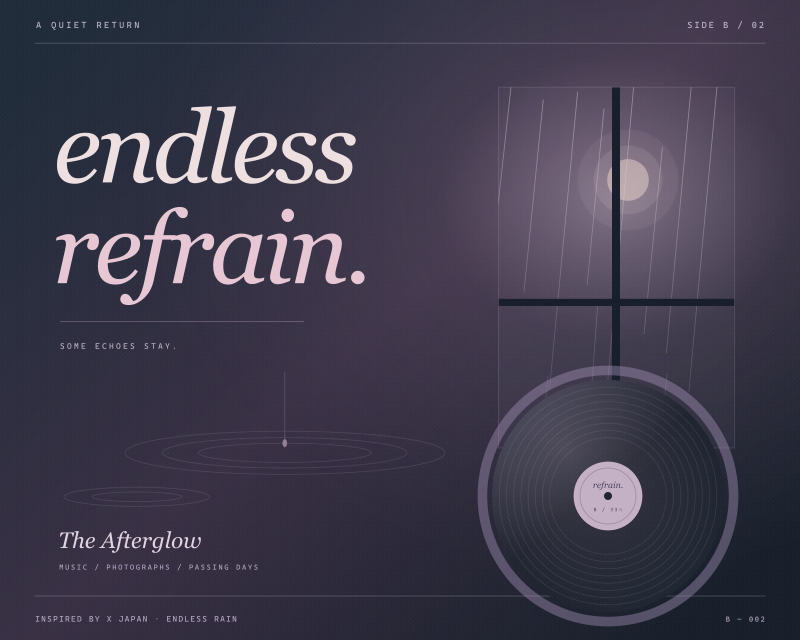
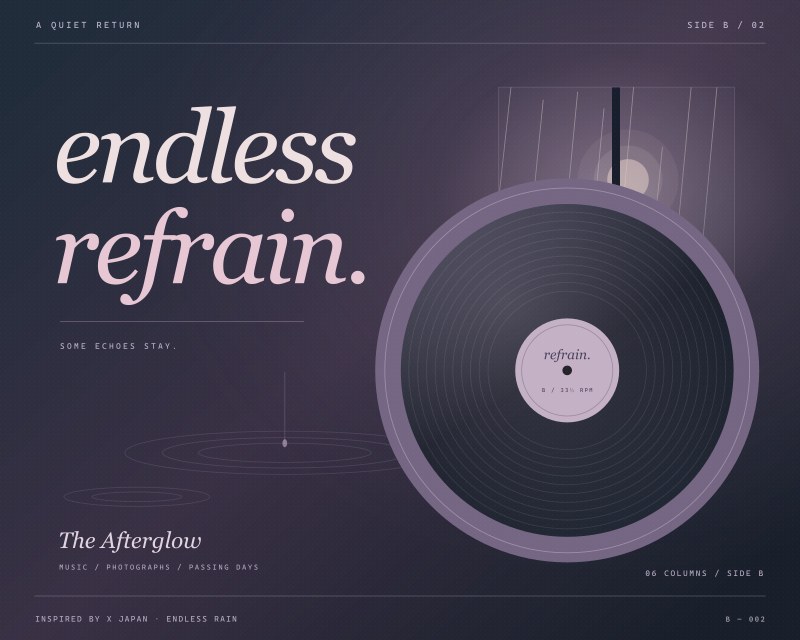
Unite the blog as bohemia's rain and align both vinyl sleeves

Changed region(s): [[0.4688, 0.2812, 0.9688, 1.0], [0.8125, 0.8438, 0.9375, 0.9375]]

diff --git a/src/styles/global.css b/src/styles/global.css
@@ -33,3 +33,9 @@
 .about-hero-image img{filter:none;object-position:50% 45%}
 .about-hero-image>span{background:#27221fc9;padding:8px 10px}
 @media(max-width:600px){.record-visual .hero-photo{aspect-ratio:1.25;box-shadow:5px 5px 0 var(--line)}.record-visual figcaption{margin-top:17px}}
+/* The longer title keeps its full spelling beside the mobile navigation. */
+.brand{flex-shrink:0}.wordmark{white-space:nowrap;font-size:36px}.footer-brand{white-space:nowrap}
+@media(max-width:900px){.brand-note{display:none}.wordmark{font-size:30px}.desktop-nav{gap:20px}.header-tools{margin-left:20px}}
+@media(max-width:700px) and (min-width:601px){.brand{gap:8px}.brand-icon{width:24px}.brand-icon svg{width:24px}.wordmark{font-size:27px}.desktop-nav{gap:15px}.header-tools{margin-left:13px;gap:3px}}
+@media(max-width:600px){.brand{gap:8px}.wordmark{font-size:clamp(22px,6.2vw,30px);letter-spacing:-1px}.brand-icon{width:23px}.brand-icon svg{width:23px}.header-tools{margin-left:auto;gap:2px}.header-tools .icon-button{min-width:32px;min-height:38px;padding:6px}.tool-divider{margin-inline:0}.footer-top{flex-wrap:wrap;gap:12px 18px}.footer-brand{font-size:27px}.footer-top>p{order:3;flex-basis:100%}}
+@media(max-width:360px){.site-header{padding-inline:18px}.brand{gap:6px}.brand-icon,.brand-icon svg{width:20px}.wordmark{font-size:22px}}

diff --git a/README.md b/README.md
@@ -1,14 +1,14 @@
-# Bohemia
+# bohemia's rain
 
 > 不同的声音，同一场共鸣。
 
 源码仓库：[ElysiaTT/Bohemia](https://github.com/ElysiaTT/Bohemia) · 默认分支：`main`
 
-一个为 GitHub Pages 制作的中文个人博客。名字取自 Queen 的《Bohemian Rhapsody》（《波西米亚狂想曲》），以原创黑胶封套、奶油纸色与酒红色建立视觉。每个专栏将像一支不同的摇滚乐队，组成同一个自由表达的舞台。
+一个为 GitHub Pages 制作的中文个人博客。名字将 Queen 的《Bohemian Rhapsody》（《波西米亚狂想曲》）与 X JAPAN 的《ENDLESS RAIN》连接起来，以原创黑胶封套、奶油纸色与酒红色建立视觉。每个专栏像一支不同的摇滚乐队，组成同一个自由表达的舞台。
 
 首页是一张可翻面的唱片：**Side A — The Signal** 收录 8 个技术专栏，**Side B — The Afterglow** 收录 6 个生活专栏。博客副标题 **an endless refrain.** 呼应 X JAPAN《ENDLESS RAIN》。文章原有的技术、设计、生活、随想分类仍用于文章列表，不代替专栏。
 
-两面的封面各自独立：**Side A / Bohemia.** 以酒红舞台与金色光束回应 Queen《波西米亚狂想曲》；**Side B / endless refrain.** 以冷紫雨夜、窗上的雨和水面回响回应 X JAPAN《ENDLESS RAIN》。翻面同步切换封面、首页签名、灵感署名与 Now Playing，专栏分组仍为 The Signal 与 The Afterglow。
+两面的封面各自独立：**Side A / Bohemia.** 以四道菱形排列的明暗人像、歌剧拱门与酒红帷幕回应 Queen《波西米亚狂想曲》；**Side B / endless refrain.** 以冷紫雨夜、窗上的雨和水面回响回应 X JAPAN《ENDLESS RAIN》。两面黑胶共用 Side A 的尺寸与位置，统一站名 **bohemia's rain**，翻面同步切换封面、首页签名、灵感署名与 Now Playing，专栏分组仍为 The Signal 与 The Afterglow。
 
 ![Side A · Bohemia](docs/side-a-bohemia.png)
 
@@ -143,7 +143,7 @@ demo: false
 
 展示字体为现有标题、碎片和引用制作的 Noto Serif SC 子集；新字符会自动使用系统衬线字体。需要更新子集时运行 `python scripts/fetch-assets.py`（也会重新下载示例图片；仅更新字体可加 `--fonts-only`）。正文使用本地系统字体。
 
-Side A 的原创封套保存在 `public/images/bohemia-cover.svg`，Side B 保存在 `public/images/endless-refrain-cover.svg`。`src/data/tracklist.json` 中各面的 `artwork` 字段保存封面名称、路径、说明与灵感署名。编辑后运行 `npm run brand`，生成两张独立预览，以及默认使用 A 面的社交分享图 `bohemia-og.png`。首页和关于页的音乐意象表达博客的组织方式，原有文章分类暂未替换为乐队名称。
+Side A 的原创封套保存在 `public/images/bohemia-cover.svg`，Side B 保存在 `public/images/endless-refrain-cover.svg`。`src/data/tracklist.json` 中各面的 `artwork` 字段保存封面名称、路径、说明与灵感署名。黑胶的公共形状保存在 `scripts/record-vinyl.mjs`，以 Side A 原始圆心 `(709, 463)`、外半径 `240`、唱片半径 `208` 为准。编辑后运行 `npm run brand`，会同步两面的黑胶形状，生成两张独立预览，以及带站名的社交分享图 `bohemia-og.png`。首页和关于页的音乐意象表达博客的组织方式，原有文章分类暂未替换为乐队名称。
 
 ## 部署到 GitHub Pages
 
